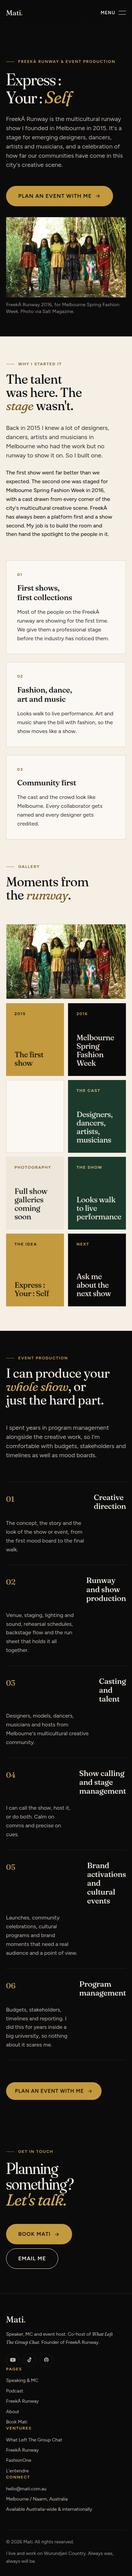
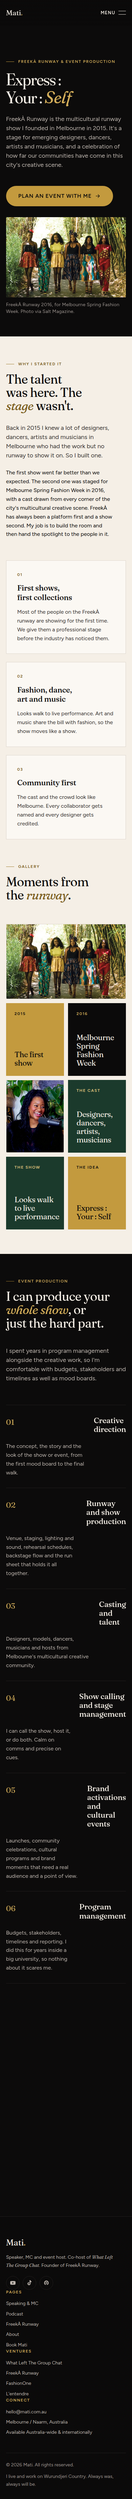
Mati site: fix staggered sections never revealing
The reveal-on-scroll observer only watched data-reveal blocks, so every
data-reveal-stagger group (cards, pillars, stats, galleries, the episode
grid) stayed at opacity 0 on the live site. Observe both, use a zero
threshold so tall groups reveal on small screens, and add a timed safety
net so nothing can stay hidden. Add the -webkit- mask prefix for Safari.
Screenshot tool now scrolls pages before capture and warns on hidden
images instead of forcing reduced motion.

Claude-Session: https://claude.ai/code/session_01B7ofK1SHf5snMSMw1NCzFK

Changed region(s): [[0.0, 0.0311, 1.0, 0.9965], [0.7077, 0.903, 0.7385, 0.9342], [0.3385, 0.903, 0.3692, 0.9342]]

diff --git a/mati-chinyanda/index.html b/mati-chinyanda/index.html
@@ -18,7 +18,7 @@
 <link rel="preload" href="/assets/fonts/fraunces-latin-full-normal.woff2" as="font" type="font/woff2" crossorigin>
 <link rel="preload" href="/assets/fonts/figtree-latin-wght-normal.woff2" as="font" type="font/woff2" crossorigin>
 <link rel="stylesheet" href="/assets/css/fonts.css?v=1">
-<link rel="stylesheet" href="/assets/css/style.css?v=3">
+<link rel="stylesheet" href="/assets/css/style.css?v=4">
 <script>document.documentElement.classList.replace('no-js','js')</script>
 <script type="application/ld+json">{"@context":"https://schema.org","@type":"Person","name":"Mati Chinyanda","alternateName":"Mati","url":"https://mati.com.au/","image":"https://mati.com.au/assets/img/portrait-45.webp","jobTitle":["Speaker","MC & Event Host","Podcast Host","Event Producer"],"description":"Melbourne-based speaker, MC and event host; co-host of What Left The Group Chat; founder of FreekÀ Runway.","address":{"@type":"PostalAddress","addressLocality":"Melbourne","addressRegion":"VIC","addressCountry":"AU"},"knowsAbout":["Event hosting","Public speaking","Fashion runway production","Podcasting","Culture and identity"],"sameAs":["https://www.youtube.com/@Whatleftthegroupchat","https://podcasts.apple.com/au/podcast/what-left-the-group-chat/id1847614435","https://www.tiktok.com/@what.left.the.gro"]}</script>
 </head>
@@ -331,6 +331,6 @@
     </div>
   </div>
 </footer>
-<script src="/assets/js/main.js?v=2" defer></script>
+<script src="/assets/js/main.js?v=3" defer></script>
 </body>
 </html>

diff --git a/mati-chinyanda/assets/css/style.css b/mati-chinyanda/assets/css/style.css
@@ -218,7 +218,7 @@ h1 em, h2 em, h3 em, .display em{font-variation-settings:"SOFT" 60;color:var(--a
   .hero__roles{gap:.4rem .9rem;font-size:.75rem}.hero__roles li{gap:.9rem}.hero__roles li+li::before{display:none}.hero__roles li:not(:first-child){padding-left:.9rem;position:relative}.hero__roles li:not(:first-child)::before{content:"";position:absolute;left:0;top:50%;width:4px;height:4px;border-radius:50%;background:var(--gold-500);transform:translateY(-50%)}}
 
 /* ---------- Marquee ---------- */
-.marquee{overflow:hidden;display:flex;gap:0;white-space:nowrap;border-block:1px solid var(--line);padding-block:1.1rem;mask-image:linear-gradient(90deg,transparent,#000 8%,#000 92%,transparent)}
+.marquee{overflow:hidden;display:flex;gap:0;white-space:nowrap;border-block:1px solid var(--line);padding-block:1.1rem;-webkit-mask-image:linear-gradient(90deg,transparent,#000 8%,#000 92%,transparent);mask-image:linear-gradient(90deg,transparent,#000 8%,#000 92%,transparent)}
 .marquee__track{display:flex;gap:0;flex:none;animation:marquee 46s linear infinite;list-style:none;margin:0;padding:0}
 .marquee:hover .marquee__track,.marquee:focus-within .marquee__track{animation-play-state:paused}
 .marquee__track li{display:flex;align-items:center;gap:2.2rem;padding-right:2.2rem;font-family:var(--font-display);font-size:var(--text-xl);letter-spacing:-.01em;color:var(--text-2)}

diff --git a/mati-chinyanda/podcast.html b/mati-chinyanda/podcast.html
@@ -18,7 +18,7 @@
 <link rel="preload" href="/assets/fonts/fraunces-latin-full-normal.woff2" as="font" type="font/woff2" crossorigin>
 <link rel="preload" href="/assets/fonts/figtree-latin-wght-normal.woff2" as="font" type="font/woff2" crossorigin>
 <link rel="stylesheet" href="/assets/css/fonts.css?v=1">
-<link rel="stylesheet" href="/assets/css/style.css?v=3">
+<link rel="stylesheet" href="/assets/css/style.css?v=4">
 <script>document.documentElement.classList.replace('no-js','js')</script>
 <script type="application/ld+json">{"@context":"https://schema.org","@type":"PodcastSeries","name":"What Left The Group Chat","url":"https://podcasts.apple.com/au/podcast/what-left-the-group-chat/id1847614435","description":"Three bold Black women navigating life in Australia: business, career, ambition, marriage, friendship, womanhood, culture and identity.","inLanguage":"en-AU","author":[{"@type":"Person","name":"Mati Chinyanda"},{"@type":"Person","name":"Tahj"},{"@type":"Person","name":"Jill"}]}</script>
 </head>
@@ -133,6 +133,6 @@
     </div>
   </div>
 </footer>
-<script src="/assets/js/main.js?v=2" defer></script>
+<script src="/assets/js/main.js?v=3" defer></script>
 </body>
 </html>

diff --git a/mati-chinyanda/assets/js/main.js b/mati-chinyanda/assets/js/main.js
@@ -24,15 +24,19 @@
     d.addEventListener('keydown', e => { if (e.key === 'Escape') setOpen(false); });
   }
 
-  /* Reveal on scroll */
-  const revealEls = d.querySelectorAll('[data-reveal]');
+  /* Reveal on scroll (both single blocks and staggered groups) */
+  const revealEls = d.querySelectorAll('[data-reveal], [data-reveal-stagger]');
+  const showAll = () => revealEls.forEach(el => el.classList.add('is-visible'));
   if (reduce || !('IntersectionObserver' in window)) {
-    revealEls.forEach(el => el.classList.add('is-visible'));
+    showAll();
   } else {
     const io = new IntersectionObserver((entries) => {
       entries.forEach(en => { if (en.isIntersecting) { en.target.classList.add('is-visible'); io.unobserve(en.target); } });
-    }, { rootMargin: '0px 0px -10% 0px', threshold: 0.12 });
+    }, { rootMargin: '0px 0px -8% 0px', threshold: 0 });
     revealEls.forEach(el => io.observe(el));
+    // Safety net: nothing stays hidden if the observer never fires (print, odd browsers, anchors).
+    setTimeout(showAll, 4000);
+    window.addEventListener('beforeprint', showAll);
   }
 
   /* Marquee: duplicate track for seamless loop */

diff --git a/mati-chinyanda/freeka-runway.html b/mati-chinyanda/freeka-runway.html
@@ -18,7 +18,7 @@
 <link rel="preload" href="/assets/fonts/fraunces-latin-full-normal.woff2" as="font" type="font/woff2" crossorigin>
 <link rel="preload" href="/assets/fonts/figtree-latin-wght-normal.woff2" as="font" type="font/woff2" crossorigin>
 <link rel="stylesheet" href="/assets/css/fonts.css?v=1">
-<link rel="stylesheet" href="/assets/css/style.css?v=3">
+<link rel="stylesheet" href="/assets/css/style.css?v=4">
 <script>document.documentElement.classList.replace('no-js','js')</script>
 <script type="application/ld+json">{"@context":"https://schema.org","@type":"Organization","name":"FreekÀ Runway","founder":{"@type":"Person","name":"Mati Chinyanda"},"foundingDate":"2015","location":{"@type":"Place","address":{"@type":"PostalAddress","addressLocality":"Melbourne","addressCountry":"AU"}},"description":"A multi-culturally inspired runway show and platform for emerging creatives to express themselves through fashion, dance, art and music."}</script>
 </head>
@@ -135,6 +135,6 @@
     </div>
   </div>
 </footer>
-<script src="/assets/js/main.js?v=2" defer></script>
+<script src="/assets/js/main.js?v=3" defer></script>
 </body>
 </html>

diff --git a/mati-chinyanda/about.html b/mati-chinyanda/about.html
@@ -18,7 +18,7 @@
 <link rel="preload" href="/assets/fonts/fraunces-latin-full-normal.woff2" as="font" type="font/woff2" crossorigin>
 <link rel="preload" href="/assets/fonts/figtree-latin-wght-normal.woff2" as="font" type="font/woff2" crossorigin>
 <link rel="stylesheet" href="/assets/css/fonts.css?v=1">
-<link rel="stylesheet" href="/assets/css/style.css?v=3">
+<link rel="stylesheet" href="/assets/css/style.css?v=4">
 <script>document.documentElement.classList.replace('no-js','js')</script>
 
 </head>
@@ -139,6 +139,6 @@
     </div>
   </div>
 </footer>
-<script src="/assets/js/main.js?v=2" defer></script>
+<script src="/assets/js/main.js?v=3" defer></script>
 </body>
 </html>

diff --git a/mati-chinyanda/book.html b/mati-chinyanda/book.html
@@ -18,7 +18,7 @@
 <link rel="preload" href="/assets/fonts/fraunces-latin-full-normal.woff2" as="font" type="font/woff2" crossorigin>
 <link rel="preload" href="/assets/fonts/figtree-latin-wght-normal.woff2" as="font" type="font/woff2" crossorigin>
 <link rel="stylesheet" href="/assets/css/fonts.css?v=1">
-<link rel="stylesheet" href="/assets/css/style.css?v=3">
+<link rel="stylesheet" href="/assets/css/style.css?v=4">
 <script>document.documentElement.classList.replace('no-js','js')</script>
 
 </head>
@@ -160,6 +160,6 @@
     </div>
   </div>
 </footer>
-<script src="/assets/js/main.js?v=2" defer></script>
+<script src="/assets/js/main.js?v=3" defer></script>
 </body>
 </html>

diff --git a/mati-chinyanda/speaking.html b/mati-chinyanda/speaking.html
@@ -18,7 +18,7 @@
 <link rel="preload" href="/assets/fonts/fraunces-latin-full-normal.woff2" as="font" type="font/woff2" crossorigin>
 <link rel="preload" href="/assets/fonts/figtree-latin-wght-normal.woff2" as="font" type="font/woff2" crossorigin>
 <link rel="stylesheet" href="/assets/css/fonts.css?v=1">
-<link rel="stylesheet" href="/assets/css/style.css?v=3">
+<link rel="stylesheet" href="/assets/css/style.css?v=4">
 <script>document.documentElement.classList.replace('no-js','js')</script>
 
 </head>
@@ -145,6 +145,6 @@
     </div>
   </div>
 </footer>
-<script src="/assets/js/main.js?v=2" defer></script>
+<script src="/assets/js/main.js?v=3" defer></script>
 </body>
 </html>

diff --git a/mati-chinyanda/404.html b/mati-chinyanda/404.html
@@ -18,7 +18,7 @@
 <link rel="preload" href="/assets/fonts/fraunces-latin-full-normal.woff2" as="font" type="font/woff2" crossorigin>
 <link rel="preload" href="/assets/fonts/figtree-latin-wght-normal.woff2" as="font" type="font/woff2" crossorigin>
 <link rel="stylesheet" href="/assets/css/fonts.css?v=1">
-<link rel="stylesheet" href="/assets/css/style.css?v=3">
+<link rel="stylesheet" href="/assets/css/style.css?v=4">
 <script>document.documentElement.classList.replace('no-js','js')</script>
 
 </head>
@@ -77,6 +77,6 @@
     </div>
   </div>
 </footer>
-<script src="/assets/js/main.js?v=2" defer></script>
+<script src="/assets/js/main.js?v=3" defer></script>
 </body>
 </html>

diff --git a/mati-chinyanda/docs/tools/build.py b/mati-chinyanda/docs/tools/build.py
@@ -42,7 +42,7 @@ def head(p):
 <link rel="preload" href="/assets/fonts/fraunces-latin-full-normal.woff2" as="font" type="font/woff2" crossorigin>
 <link rel="preload" href="/assets/fonts/figtree-latin-wght-normal.woff2" as="font" type="font/woff2" crossorigin>
 <link rel="stylesheet" href="/assets/css/fonts.css?v=1">
-<link rel="stylesheet" href="/assets/css/style.css?v=3">
+<link rel="stylesheet" href="/assets/css/style.css?v=4">
 <script>document.documentElement.classList.replace('no-js','js')</script>
 {ld}
 </head>
@@ -104,7 +104,7 @@ def footer(p):
     </div>
   </div>
 </footer>
-<script src="/assets/js/main.js?v=2" defer></script>
+<script src="/assets/js/main.js?v=3" defer></script>
 </body>
 </html>
 '''
